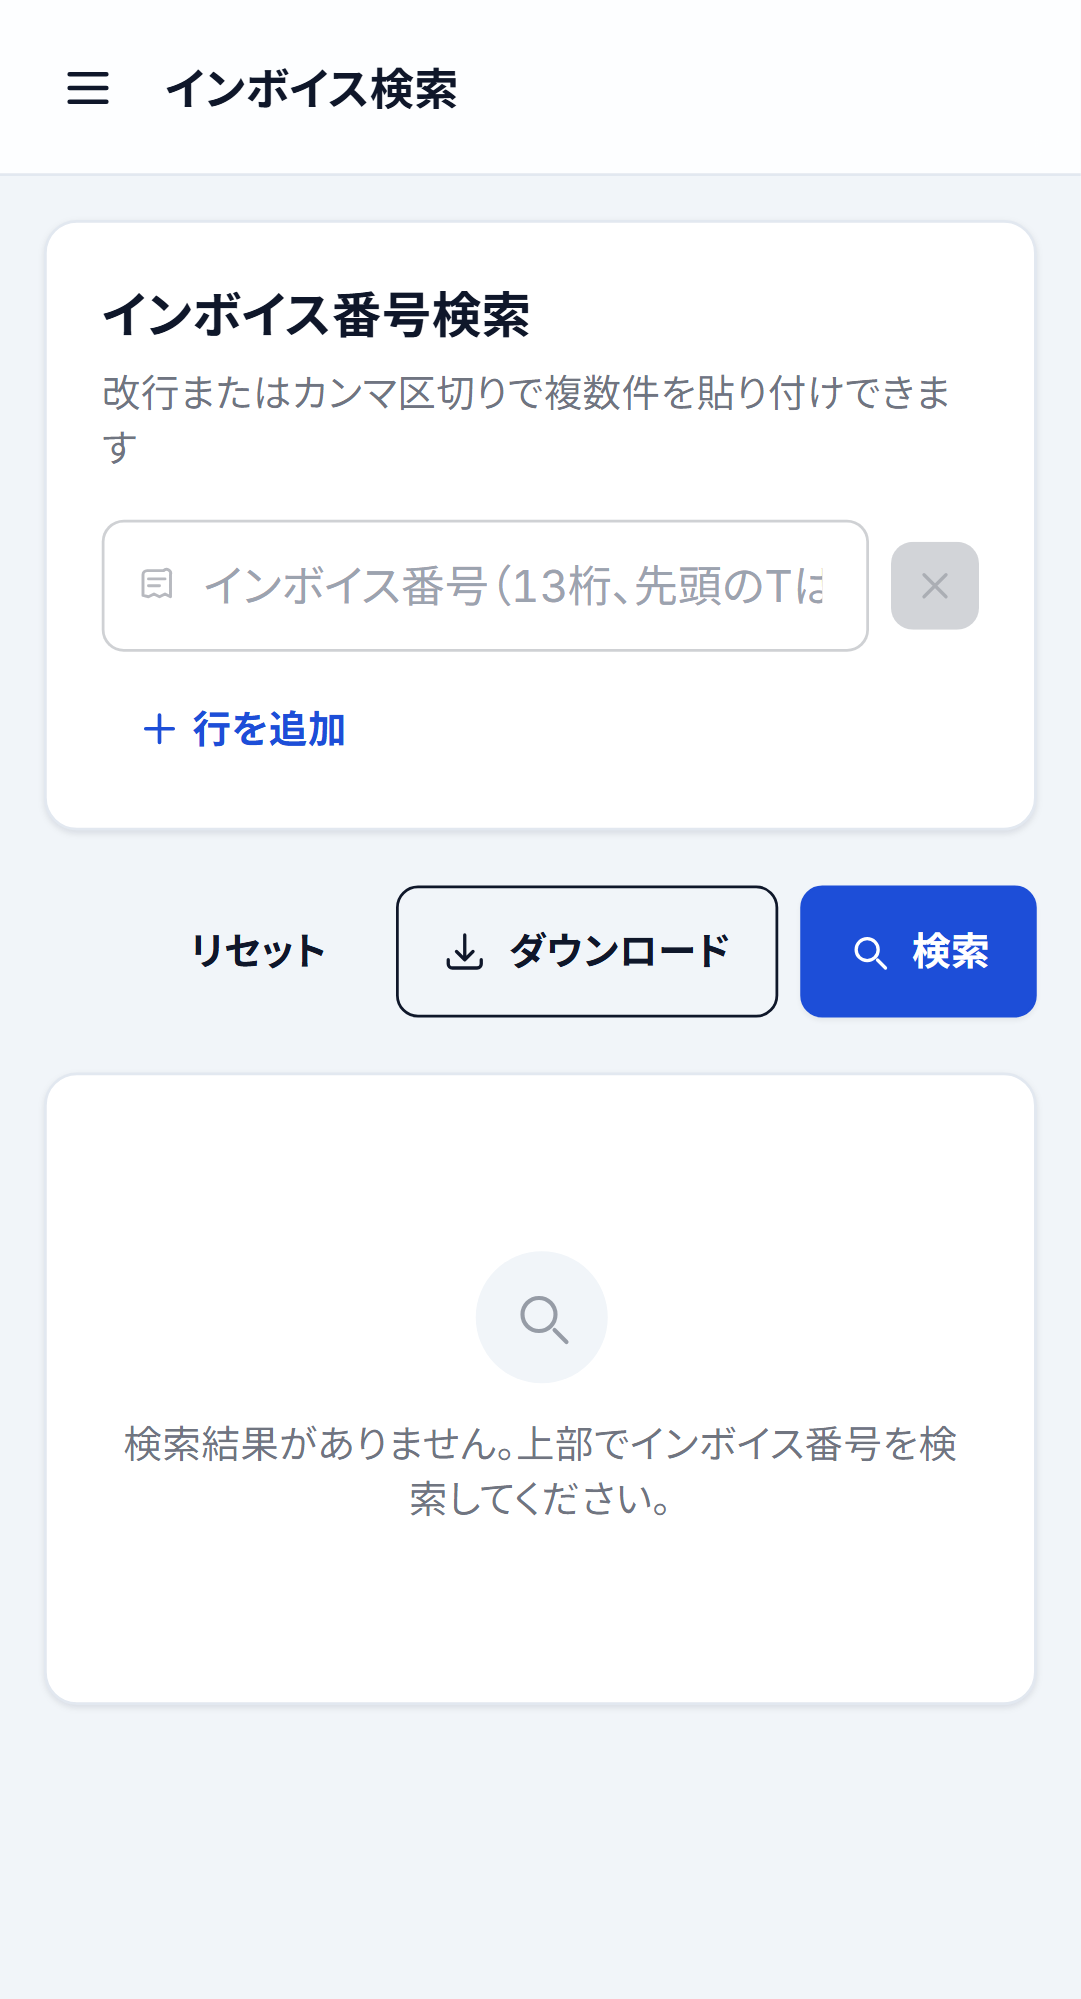
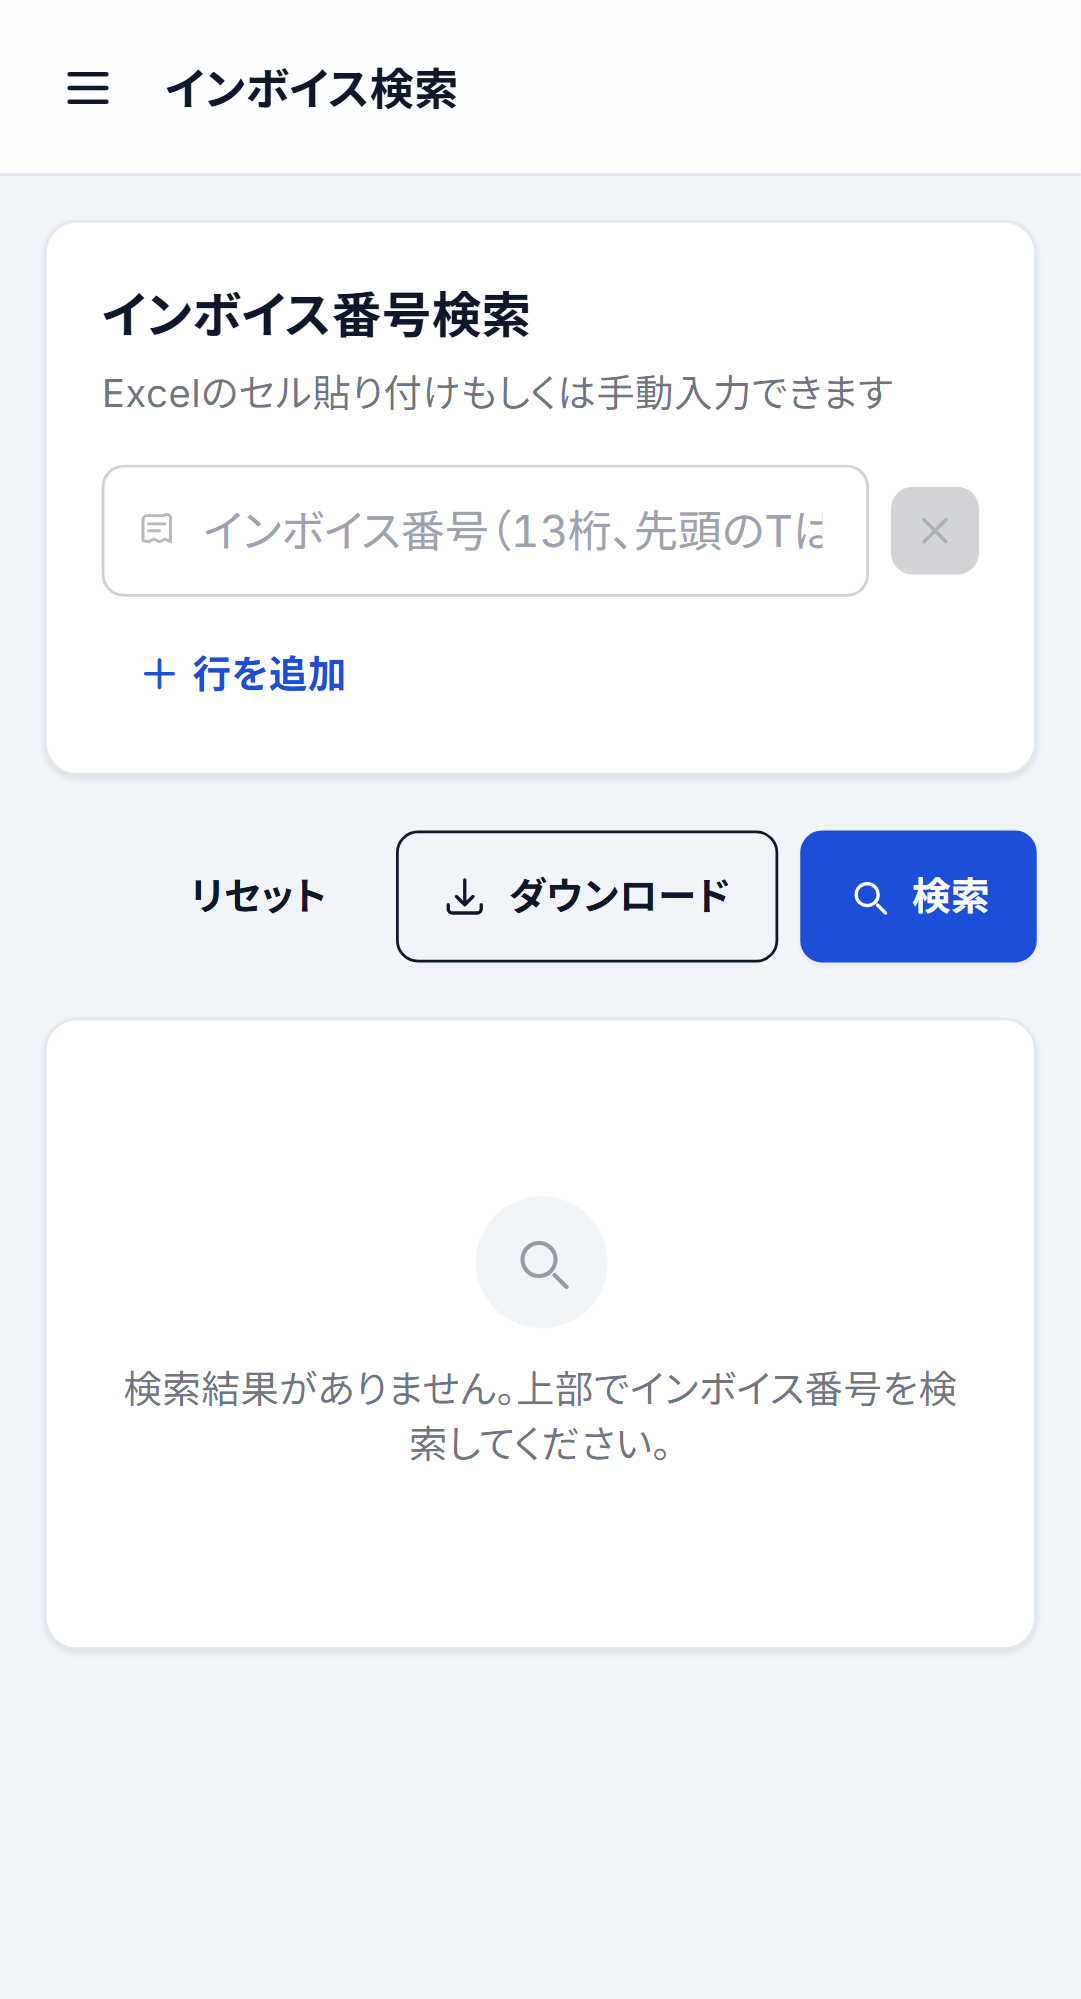
fix: [UI] 検索ヒント文言変更＋整合性チェックのドラッグ&ドロップ対応
- 検索入力ヒントを「Excelのセル貼り付けもしくは手動入力できます」に変更（ja/en）
- 整合性チェック dropzone に onDragOver/onDragLeave/onDrop を実装。
  preventDefault によりブラウザのファイル展開を防ぎ、D&D で添付できるように。
  ドラッグ中の視覚フィードバック＋ data-testid 追加
- ConsistencyCheckPage の D&D 単体テスト追加（3件）
- サンプル整合性チェックCSV（実在登録番号・整合/NG混在）を docs に追加
- 検証: build/lint・Vitest 141・E2E 64（0失敗）

Refs: #30

diff --git a/Invoice-Search/frontend/src/features/consistency-check/components/ConsistencyCheckPage.tsx b/Invoice-Search/frontend/src/features/consistency-check/components/ConsistencyCheckPage.tsx
@@ -13,13 +13,37 @@ export function ConsistencyCheckPage(): React.JSX.Element {
   const fileInputRef = useRef<HTMLInputElement>(null);
   const [selectedFile, setSelectedFile] = useState<File | null>(null);
   const [fileError, setFileError] = useState<string | null>(null);
+  const [isDragActive, setIsDragActive] = useState(false);
   const [rows, setRows] = useState<ConsistencyRow[]>([]);
   const checkMutation = useConsistencyCheck({ userId: user?.email });
 
-  const handleFileChange = (event: React.ChangeEvent<HTMLInputElement>): void => {
-    const file = event.target.files?.[0] ?? null;
+  const selectFile = (file: File | null): void => {
     setSelectedFile(file);
     setFileError(null);
+  };
+
+  const handleFileChange = (event: React.ChangeEvent<HTMLInputElement>): void => {
+    selectFile(event.target.files?.[0] ?? null);
+  };
+
+  // ドラッグ&ドロップ。preventDefault しないとブラウザがファイルを開いてしまう。
+  const handleDragOver = (event: React.DragEvent<HTMLDivElement>): void => {
+    event.preventDefault();
+    setIsDragActive(true);
+  };
+
+  const handleDragLeave = (event: React.DragEvent<HTMLDivElement>): void => {
+    event.preventDefault();
+    setIsDragActive(false);
+  };
+
+  const handleDrop = (event: React.DragEvent<HTMLDivElement>): void => {
+    event.preventDefault();
+    setIsDragActive(false);
+    const file = event.dataTransfer.files?.[0] ?? null;
+    if (file) {
+      selectFile(file);
+    }
   };
 
   const handleCheck = async (): Promise<void> => {
@@ -58,13 +82,21 @@ export function ConsistencyCheckPage(): React.JSX.Element {
         </div>
 
         <div
-          className="group flex cursor-pointer flex-col items-center justify-center gap-3 rounded-box border-2 border-dashed border-base-300 bg-base-200/40 px-6 py-10 text-center transition-colors hover:border-primary/50 hover:bg-primary/5"
+          className={`group flex cursor-pointer flex-col items-center justify-center gap-3 rounded-box border-2 border-dashed px-6 py-10 text-center transition-colors ${
+            isDragActive
+              ? "border-primary bg-primary/10"
+              : "border-base-300 bg-base-200/40 hover:border-primary/50 hover:bg-primary/5"
+          }`}
           onClick={() => fileInputRef.current?.click()}
           onKeyDown={(e) => {
             if (e.key === "Enter" || e.key === " ") fileInputRef.current?.click();
           }}
+          onDrop={handleDrop}
+          onDragOver={handleDragOver}
+          onDragLeave={handleDragLeave}
           role="button"
           tabIndex={0}
+          data-testid="csv-dropzone"
         >
           <div className="flex h-12 w-12 items-center justify-center rounded-full bg-base-100 text-base-content/40 shadow-sm transition-colors group-hover:text-primary">
             <svg

diff --git a/Invoice-Search/frontend/src/features/consistency-check/components/ConsistencyCheckPage.test.tsx b/Invoice-Search/frontend/src/features/consistency-check/components/ConsistencyCheckPage.test.tsx
@@ -1,0 +1,57 @@
+import { describe, it, expect, vi } from "vitest";
+import { render, screen, fireEvent, createEvent } from "@testing-library/react";
+import { ConsistencyCheckPage } from "./ConsistencyCheckPage";
+
+vi.mock("react-i18next", () => ({
+  useTranslation: () => ({ t: (key: string) => key }),
+}));
+
+vi.mock("@/features/auth/hooks/useAuthContext", () => ({
+  useAuth: () => ({ user: { email: "test@example.com" } }),
+}));
+
+vi.mock("../hooks/useConsistencyCheck", () => ({
+  useConsistencyCheck: () => ({ mutateAsync: vi.fn(), isPending: false, isError: false }),
+}));
+
+function makeCsvFile(name = "dropped.csv"): File {
+  return new File(["インボイス番号,会社名,住所\n"], name, { type: "text/csv" });
+}
+
+describe("ConsistencyCheckPage drag-and-drop", () => {
+  it("prevents the browser default on dragOver so the file is not opened", () => {
+    render(<ConsistencyCheckPage />);
+    const dropzone = screen.getByTestId("csv-dropzone");
+
+    const dragOver = createEvent.dragOver(dropzone, {
+      dataTransfer: { files: [makeCsvFile()] },
+    });
+    fireEvent(dropzone, dragOver);
+
+    expect(dragOver.defaultPrevented).toBe(true);
+  });
+
+  it("attaches the dropped file and prevents default on drop", () => {
+    render(<ConsistencyCheckPage />);
+    const dropzone = screen.getByTestId("csv-dropzone");
+    const file = makeCsvFile("orders.csv");
+
+    const drop = createEvent.drop(dropzone, { dataTransfer: { files: [file] } });
+    fireEvent(dropzone, drop);
+
+    expect(drop.defaultPrevented).toBe(true);
+    // 選択ファイル名が表示される（添付された）
+    expect(screen.getByText(/orders\.csv/)).toBeDefined();
+  });
+
+  it("ignores a drop with no files", () => {
+    render(<ConsistencyCheckPage />);
+    const dropzone = screen.getByTestId("csv-dropzone");
+
+    const drop = createEvent.drop(dropzone, { dataTransfer: { files: [] } });
+    fireEvent(dropzone, drop);
+
+    expect(drop.defaultPrevented).toBe(true);
+    expect(screen.queryByText(/\.csv/)).toBeNull();
+  });
+});

diff --git a/Invoice-Search/frontend/src/shared/lib/i18n/resources/ja.ts b/Invoice-Search/frontend/src/shared/lib/i18n/resources/ja.ts
@@ -44,7 +44,7 @@ export const ja: { translation: TranslationResource } = {
       placeholder: "インボイス番号（13桁、先頭のTは省略可）",
       addRow: "行を追加",
       removeRow: "行を削除",
-      pasteHint: "改行またはカンマ区切りで複数件を貼り付けできます",
+      pasteHint: "Excelのセル貼り付けもしくは手動入力できます",
       invalidFormat: "形式が無効です。13桁の数字（先頭Tは任意）で入力してください。",
       noValidInput: "有効なインボイス番号を1件以上入力してください。",
       searchError: "インボイス番号の検索に失敗しました。",

diff --git a/Invoice-Search/frontend/src/shared/lib/i18n/resources/en.ts b/Invoice-Search/frontend/src/shared/lib/i18n/resources/en.ts
@@ -42,7 +42,7 @@ export const en = {
       placeholder: "Invoice number (13 digits, leading T optional)",
       addRow: "Add row",
       removeRow: "Remove row",
-      pasteHint: "Paste multiple numbers separated by newline or comma",
+      pasteHint: "Paste cells from Excel, or type manually",
       invalidFormat: "Invalid format. Expected 13 digits, optional leading T.",
       noValidInput: "Please enter at least one valid invoice number.",
       searchError: "Failed to search invoice numbers.",
